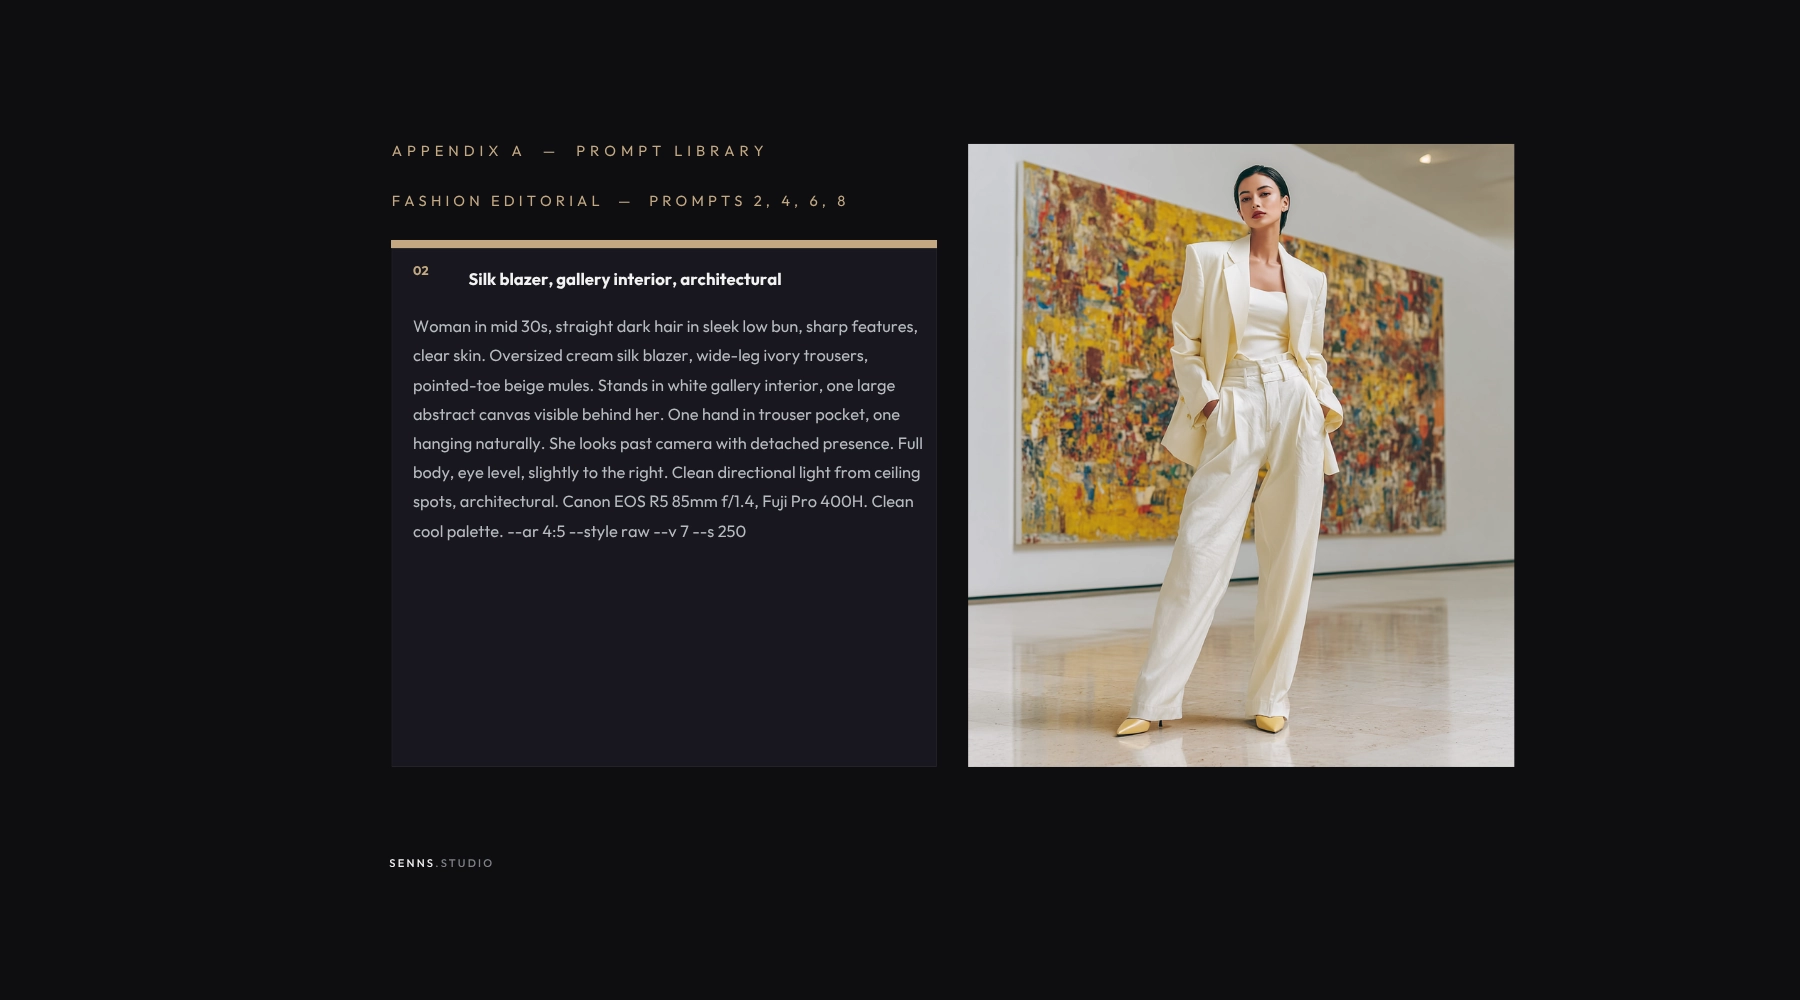
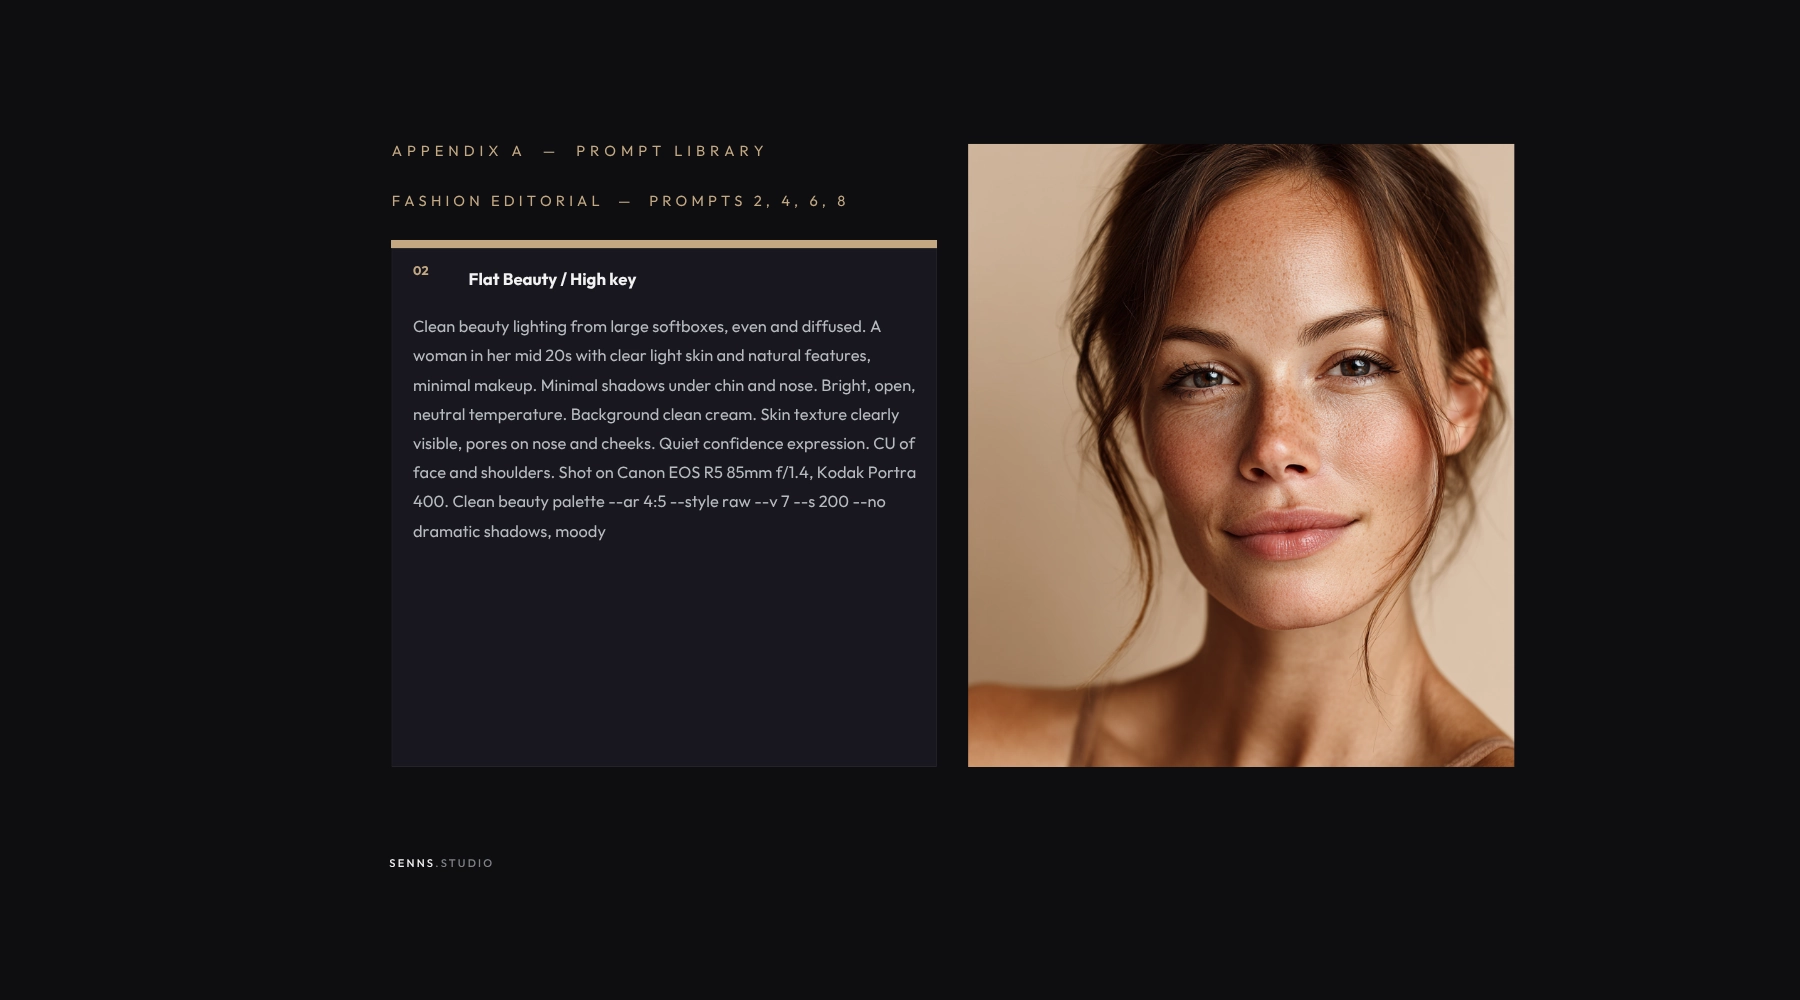
Publish SENNS System cover and update preview asset

Changed region(s): [[0.2178, 0.124, 0.84, 0.775]]

diff --git a/en/kit.html b/en/kit.html
@@ -715,7 +715,7 @@
 
     .kit-product__cover-row {
       display: grid;
-      grid-template-columns: 200px 1fr;
+      grid-template-columns: 240px 1fr;
       gap: 28px;
       align-items: start;
     }
@@ -1036,7 +1036,7 @@
 
       .kit-product__cover,
       .kit-product__cover-placeholder {
-        max-width: 180px;
+        max-width: 220px;
         margin: 0 auto;
       }
 

diff --git a/kit.html b/kit.html
@@ -715,7 +715,7 @@
 
     .kit-product__cover-row {
       display: grid;
-      grid-template-columns: 200px 1fr;
+      grid-template-columns: 240px 1fr;
       gap: 28px;
       align-items: start;
     }
@@ -1036,7 +1036,7 @@
 
       .kit-product__cover,
       .kit-product__cover-placeholder {
-        max-width: 180px;
+        max-width: 220px;
         margin: 0 auto;
       }
 
